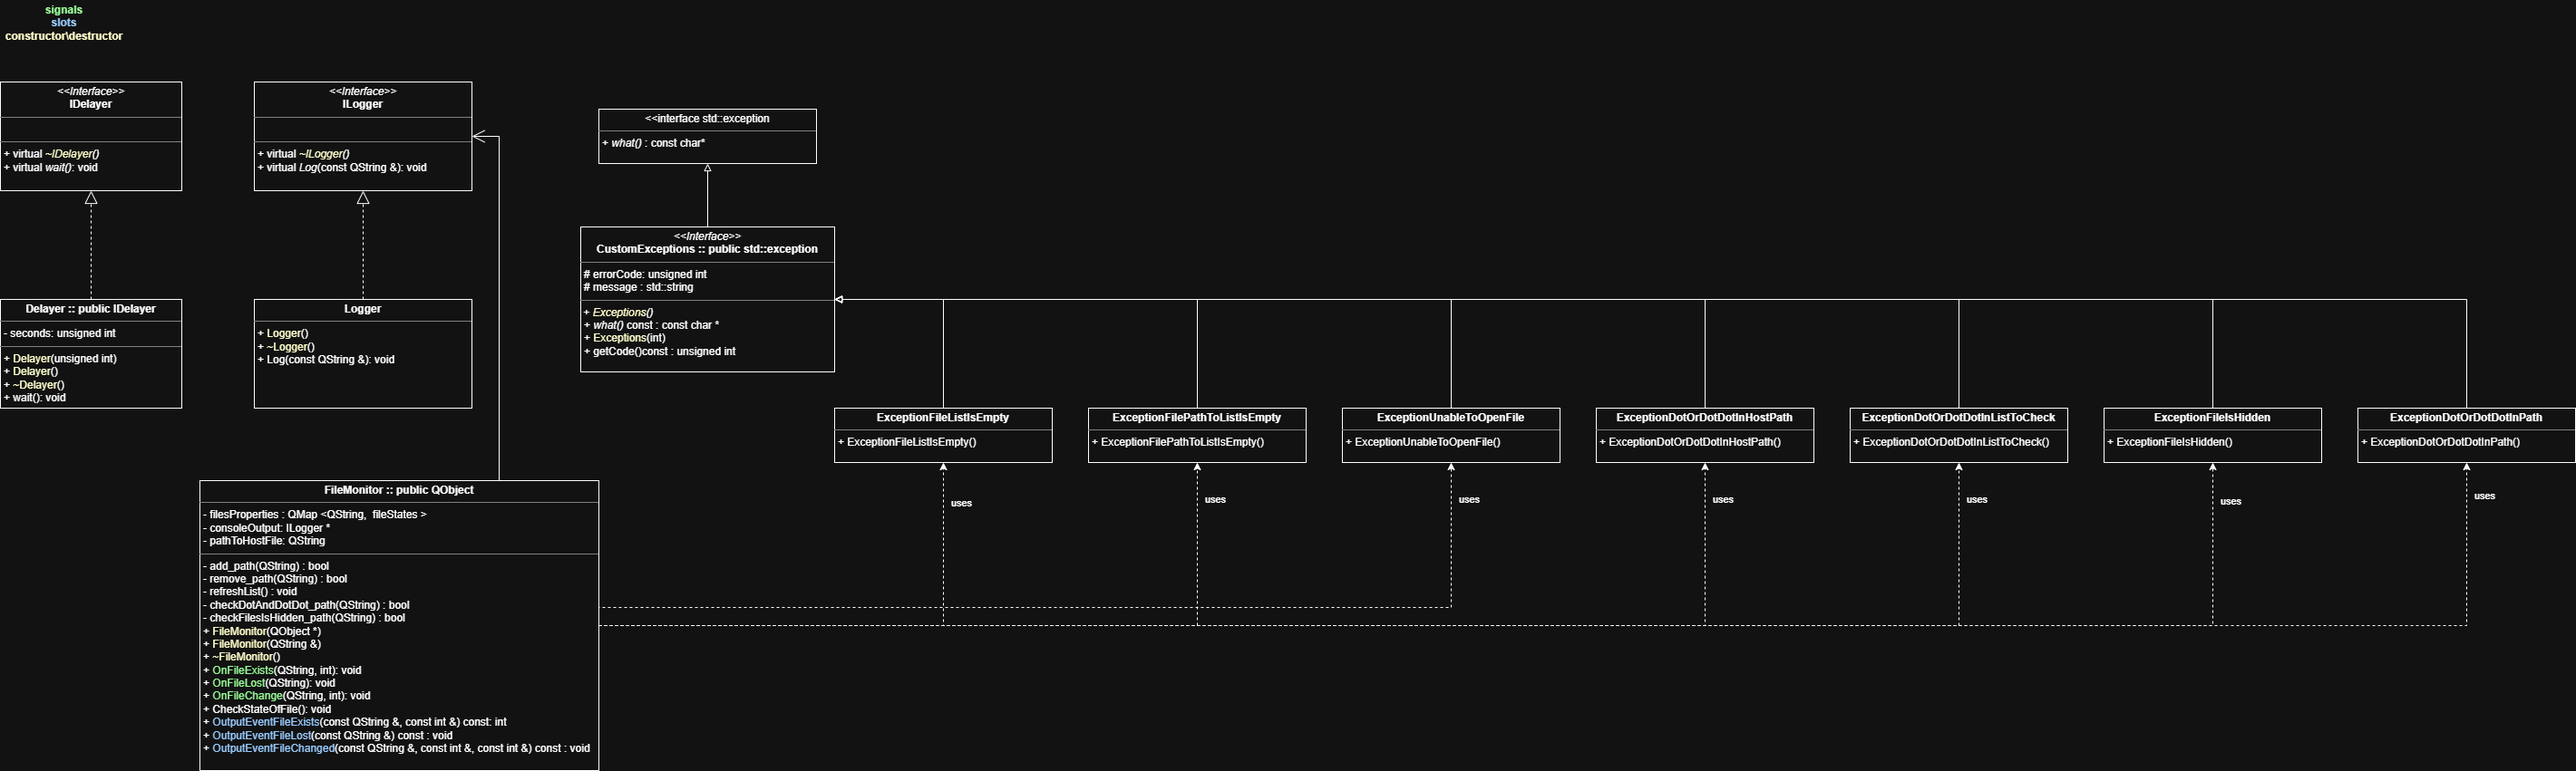
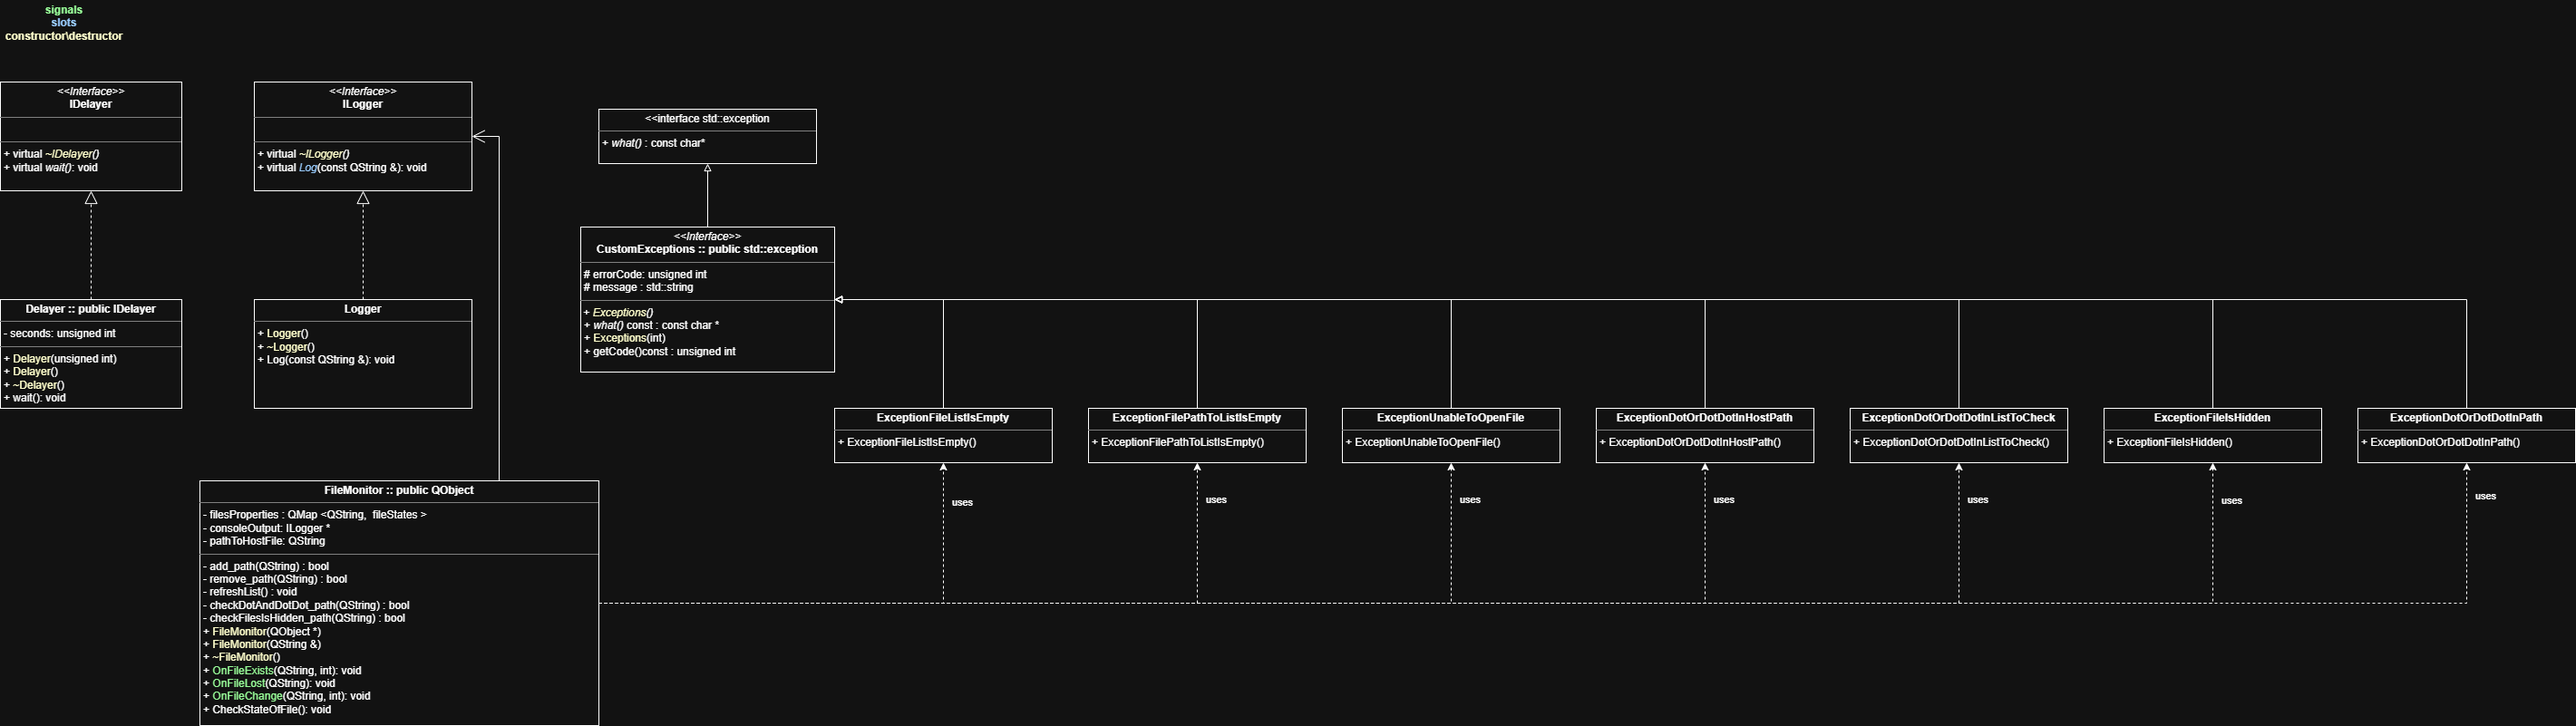
Refactor code + UML
- удаление устаревших и ненужных комментариев
- правка UML классов и сигналов-слотов

diff --git a/Lab1/src/FileMonitor.cpp b/Lab1/src/FileMonitor.cpp
@@ -27,10 +27,6 @@ FileMonitor::FileMonitor(QString & path_to_hostFile, ILogger * __logg){
     }else{
         throw new ExceptionUnableToOpenFile; // EXCEPTION_UNABLE_TO_OPEN_FILE;
     }
-    //QObject::connect(this, &FileMonitor::signalFileChange, consoleOutput, &ILogger::Log);    //ConsoleLogger::OutputEventFileChanged);
-    //QObject::connect(this, &FileMonitor::signalFileExists,   consoleOutput, &ILogger::Log);    //&ConsoleLogger::OutputEventFileExists);
-    //QObject::connect(this, &FileMonitor::signalFileLost,     consoleOutput, &ILogger::Log);    //&ConsoleLogger::OutputEventFileLost);
-
 }
 
 
@@ -44,13 +40,7 @@ FileMonitor::~FileMonitor(){
 // returns 1 - added successfully
 // returns 0 - path is already exists in fileProperties and has not been added
 bool FileMonitor::add_path(QString &path){
-    /*QString checkerPath = path;
-    QFileInfo chekerPath_fileInfo(checkerPath);
-    checkerPath.chop(chekerPath_fileInfo.fileName().size());
-    if(checkerPath.contains("..") || checkerPath.contains(".")){
-        throw ExceptionDotOrDotDotInListToCheck();
-    }
-*/
+
     if(checkDotAndDotDot_path(path)){
         throw ExceptionDotOrDotDotInListToCheck();
     }
@@ -192,24 +182,23 @@ void FileMonitor::CheckStateOfFiles(){
             if(temp_fileinfo.current_state.isHidden()){
                 throw ExceptionFileIsHidden();
             }
-            // message = path + " --- File is exists. Size: " + QString::number(currentSize) + " bytes."
             if(!temp_fileinfo.current_state.exists()){
                 // Файл не найден
-                emit signalFileLost(temp_fileinfo.current_state.filePath() + " --- File has been deleted, replaced or renamed.");//(temp_fileinfo.current_state.filePath());
+                emit signalFileLost(temp_fileinfo.current_state.filePath() +
+                                                        " --- File has been deleted, replaced or renamed.");
             }else{
                 if((temp_fileinfo.current_state.size()) != (temp_fileinfo.previous_state.size())){
                     // Размер файла изменился
-                //QString msg = temp_fileinfo.current_state.filePath() +
-                //              " --- File is exists. Size: " + QString::number(temp_fileinfo.current_state.size()) + " bytes.";
                     emit signalFileChange(temp_fileinfo.current_state.absoluteFilePath() +
                                                                 " --- Size has been changed. Size:  " +
-                                        QString::number(temp_fileinfo.previous_state.size()) +
-                                                    " -> " + QString::number(temp_fileinfo.current_state.size()) + " bytes.");
-//temp_fileinfo.current_state.filePath(), temp_fileinfo.previous_state.size(), temp_fileinfo.current_state.size());
+                                                                QString::number(temp_fileinfo.previous_state.size()) +
+                                                                " -> " + QString::number(temp_fileinfo.current_state.size()) + " bytes.");
                 }else{
                      // Файл существует
                     emit signalFileExists(temp_fileinfo.current_state.filePath() +
-                              " --- File is exists. Size: " + QString::number(temp_fileinfo.current_state.size()) + " bytes.");//(temp_fileinfo.current_state.filePath(), temp_fileinfo.current_state.size());
+                                                            " --- File is exists. Size: " +
+                                                            QString::number(temp_fileinfo.current_state.size()) +
+                                                            " bytes.");
                 }
             }
             // Обновление старых данных под новые

diff --git a/Lab1/src/ConsoleLogger.cpp b/Lab1/src/ConsoleLogger.cpp
@@ -9,22 +9,6 @@ void ConsoleLogger::Log(QString s) {
 
 
 
-// [слот] файл существует
-void ConsoleLogger::OutputEventFileExists(const QString &path, const int &currentSize) {
-    Log(path + " --- File is exists. Size: " + QString::number(currentSize) + " bytes.");
-}
-
-// [слот] файл удалён, перемещён или переименован
-void ConsoleLogger::OutputEventFileLost(const QString &path) {
-    Log(path + " --- File has been deleted, replaced or renamed.");
-}
-
-// [слот] размер файла изменился на newSize
-void ConsoleLogger::OutputEventFileChanged(const QString &path, const int &oldSize, const int &newSize) {
-    Log(path + " --- Size has been changed. Size:  " + QString::number(oldSize) + " -> " + QString::number(newSize) + " bytes.");
-}
-
-
 // определение функции вывода - вывод на консоль QString data
 /*
 // Тестирование

diff --git a/Lab1/ConsoleLogger.h b/Lab1/ConsoleLogger.h
@@ -7,31 +7,13 @@
 
 
 class ConsoleLogger : public ILogger{
-private:
-
-
-
 public:
 
     ConsoleLogger() {};
     ~ConsoleLogger() {};
 
-
-
     // переопределение log от базового класса
-
     void Log(QString s) override;
-public:
-    // [слот] файл существует
-    void OutputEventFileExists(const QString &path, const int &currentSize);
-
-    // [слот] файл удалён, перемещён или переименован
-    void OutputEventFileLost(const QString &path);
-
-    // [слот] размер файла изменился на newSize
-    void OutputEventFileChanged(const QString &path, const int &oldSize, const int &newSize);
-
-
 
 };
 

diff --git a/Lab1/FileMonitor.h b/Lab1/FileMonitor.h
@@ -52,19 +52,6 @@ signals:
     void signalFileChange(QString msg_log);//(QString path, int oldSize, int newSize);
 
 
-public slots:
-
-
-/*
-// файл существует
-    void OutputEventFileExists(QString);//(const QString &path, const int &currentSize) const;
-// файл удалён, перемещён или переименован
-    void OutputEventFileLost(QString);//(const QString &path) const;
-// размер файла изменился на newSize
-    void OutputEventFileChanged(QString);//(const QString &path, const int &oldSize, const int &newSize) const;
-
-*/
-
 private:
 
     struct fileStates{

diff --git a/Lab1/main.cpp b/Lab1/main.cpp
@@ -57,13 +57,6 @@ int main(int argc, char *argv[])
 
     FileMonitor FileMonitor1;
 
-
-    //QObject::connect(&FileMonitor1, &FileMonitor::OnFileChange, &FileMonitor1, &FileMonitor::OutputEventFileChanged);
-    //QObject::connect(&FileMonitor1, &FileMonitor::OnFileExists,   &FileMonitor1, &FileMonitor::OutputEventFileExists);
-    //QObject::connect(&FileMonitor1, &FileMonitor::OnFileLost,     &FileMonitor1, &FileMonitor::OutputEventFileLost);
-
-
-
     try{
         FileMonitor1.Init(path, __logger);
     }catch (CustomExceptions &excp){

diff --git a/Lab1/ILogger.h b/Lab1/ILogger.h
@@ -18,7 +18,7 @@ public:
        virtual ~ILogger() {}
 
     // функция вывода
-   public slots:
+public slots:
        virtual void Log(QString) = 0;
 
 };
